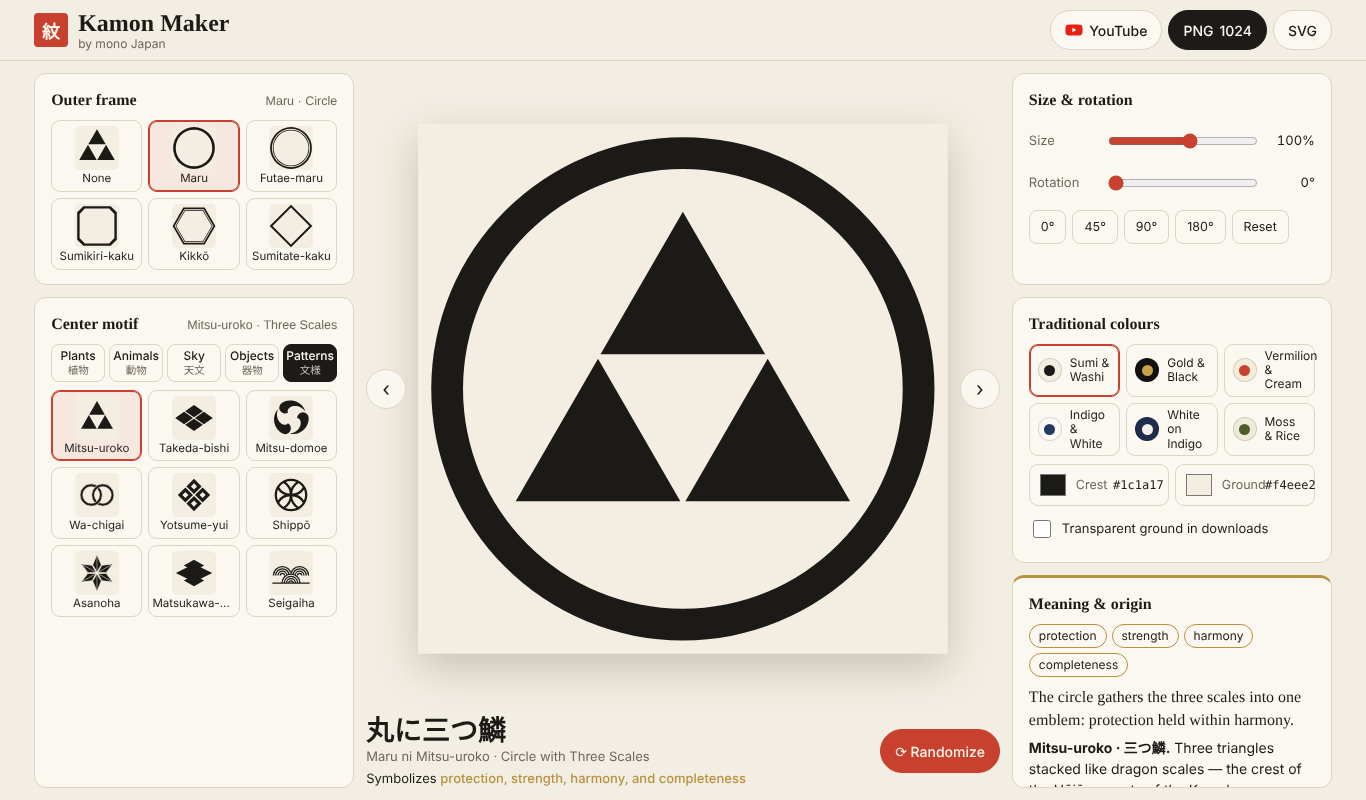
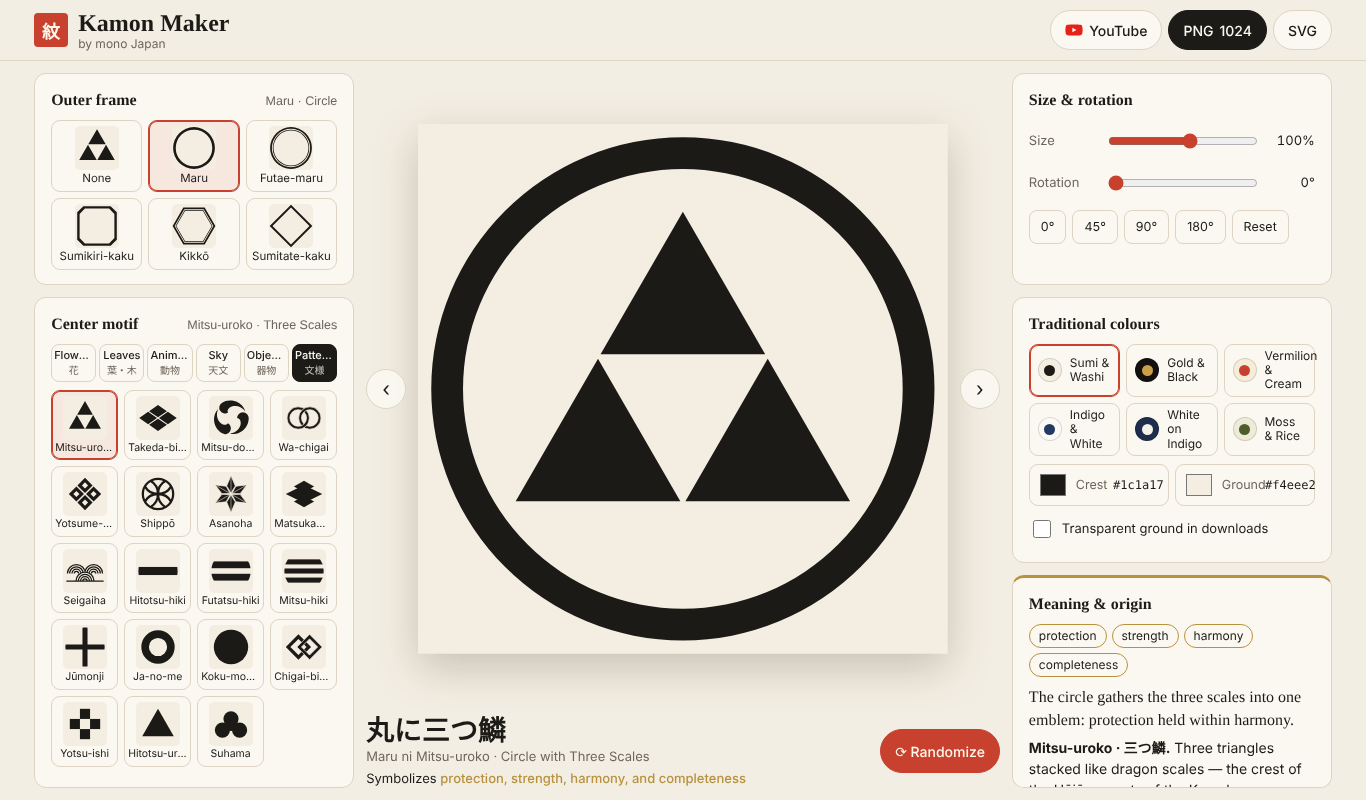
Add 24 redrawn motifs (65 total), split into 6 categories, clip bar crests to frame
Claude-Session: https://claude.ai/code/session_0124S54WDTQFpv3xbj78Jc1Y

Changed region(s): [[0.0307, 0.4375, 0.246, 0.9688]]

diff --git a/index.html b/index.html
@@ -34,10 +34,10 @@ button{cursor:pointer;-webkit-tap-highlight-color:transparent}
 .by{font-size:12px;color:var(--mute);line-height:1;white-space:nowrap;text-decoration:none}
 .by:hover{color:var(--shu);text-decoration:underline}
 a.btn{text-decoration:none;color:inherit}
-.cats{display:grid;grid-template-columns:repeat(5,minmax(0,1fr));gap:4px;margin:0 0 8px}
+.cats{display:grid;grid-template-columns:repeat(6,minmax(0,1fr));gap:3px;margin:0 0 8px}
 .cats button{min-height:38px;border:1px solid var(--line);border-radius:8px;background:transparent;display:grid;place-items:center;line-height:1.1;padding:3px 2px}
-.cats button span{font-size:12px;font-weight:500}
-.cats small{font-size:10.5px;color:var(--mute)}
+.cats button span{font-size:11px;font-weight:500;white-space:nowrap;overflow:hidden;text-overflow:ellipsis;max-width:100%}
+.cats small{font-size:10px;color:var(--mute);white-space:nowrap}
 .cats button[aria-selected=true]{background:var(--sel);border-color:var(--sel);color:var(--selink)}
 .cats button[aria-selected=true] small{color:inherit;opacity:.75}
 .top .acts{margin-left:auto;display:flex;gap:6px}
@@ -95,7 +95,8 @@ a.btn{text-decoration:none;color:inherit}
 .opt:hover{border-color:var(--mute)}
 .opt[aria-pressed=true]{border-color:var(--shu);background:color-mix(in srgb,var(--shu) 9%,transparent);box-shadow:inset 0 0 0 1px var(--shu)}
 @media(min-width:960px) and (min-height:600px){
- .grid{grid-template-columns:repeat(3,minmax(0,1fr))}.grid.m{grid-template-columns:repeat(3,minmax(0,1fr))}
+ .grid{grid-template-columns:repeat(3,minmax(0,1fr))}.grid.m{grid-template-columns:repeat(4,minmax(0,1fr))}
+ .grid.m .opt .lb{font-size:10.5px}
  .opt .lb{display:block}.opt .th{max-width:44px}
 }
 @media(min-width:600px) and (max-width:959px){.opt .lb{display:block}}
@@ -160,16 +161,16 @@ const P='var(--p)';
 
 /* ---------- frames ---------- */
 const FRAMES=[
- {id:'none',name:'None',en:'',ro:'',jp:'',fit:1.28,d:''},
- {id:'maru',name:'Maru',en:'Circle',ro:'Maru ni',jp:'丸に',fit:1,d:circ(95)+circ(83),
+ {id:'none',name:'None',en:'',ro:'',jp:'',fit:1.28,d:'',inner:circ(90)},
+ {id:'maru',name:'Maru',en:'Circle',ro:'Maru ni',jp:'丸に',fit:1,d:circ(95)+circ(83),inner:circ(83),
   kw:['harmony','completeness'],text:'The circle is the simplest and most familiar enclosure in Japanese heraldry — a single line that gathers the motif into a whole.'},
- {id:'futae',name:'Futae-maru',en:'Double Circle',ro:'Futae-maru ni',jp:'二重丸に',fit:.94,d:circ(95)+circ(87)+circ(83)+circ(79.5),
+ {id:'futae',name:'Futae-maru',en:'Double Circle',ro:'Futae-maru ni',jp:'二重丸に',fit:.94,d:circ(95)+circ(87)+circ(83)+circ(79.5),inner:circ(79.5),
   kw:['continuity','unity'],text:'A doubled ring: a heavy outer line with a fine one inside, reading as a layered, enduring boundary.'},
- {id:'sumikiri',name:'Sumikiri-kaku',en:'Cut-corner Square',ro:'Sumikiri-kaku ni',jp:'隅切り角に',fit:1.02,d:poly(octa(90,28))+poly(octa(79,24)),
+ {id:'sumikiri',name:'Sumikiri-kaku',en:'Cut-corner Square',ro:'Sumikiri-kaku ni',jp:'隅切り角に',fit:1.02,d:poly(octa(90,28))+poly(octa(79,24)),inner:poly(octa(79,24)),
   kw:['order','refinement'],text:'A square with its corners trimmed away — firm and orderly, but with the hard edges softened.'},
- {id:'kikko',name:'Kikkō',en:'Tortoise Shell',ro:'Kikkō ni',jp:'亀甲に',fit:.9,d:poly(ngon(6,97))+poly(ngon(6,88))+poly(ngon(6,84))+poly(ngon(6,80.5)),
+ {id:'kikko',name:'Kikkō',en:'Tortoise Shell',ro:'Kikkō ni',jp:'亀甲に',fit:.9,d:poly(ngon(6,97))+poly(ngon(6,88))+poly(ngon(6,84))+poly(ngon(6,80.5)),inner:poly(ngon(6,80.5)),
   kw:['longevity','good fortune'],text:'The hexagon imitates the plates of a tortoise shell, an animal tied to long life. Izumo Taisha encloses its crest in a double tortoise shell; one explanation links the hexagon to Genbu, the turtle-and-snake guardian of the north.'},
- {id:'sumitate',name:'Sumitate-kaku',en:'Diamond Square',ro:'Sumitate-kaku ni',jp:'隅立て角に',fit:.8,d:poly(ngon(4,97,-Math.PI/2))+poly(ngon(4,84,-Math.PI/2)),
+ {id:'sumitate',name:'Sumitate-kaku',en:'Diamond Square',ro:'Sumitate-kaku ni',jp:'隅立て角に',fit:.8,d:poly(ngon(4,97,-Math.PI/2))+poly(ngon(4,84,-Math.PI/2)),inner:poly(ngon(4,84,-Math.PI/2)),
   kw:['balance','resolve'],text:'A square stood on its corner — the same shape as a plain square, made alert and upright.'}
 ];
 
@@ -197,13 +198,13 @@ const MOTIFS=[
   svg:()=>{const a=78,b=54,c=[0,0],Q=[[0,-b],[a/2,-b/2],[a,0],[a/2,b/2],[0,b],[-a/2,b/2],[-a,0],[-a/2,-b/2]];
    return `<path d="${[[Q[0],Q[1],c,Q[7]],[Q[1],Q[2],Q[3],c],[c,Q[3],Q[4],Q[5]],[Q[7],c,Q[5],Q[6]]].map(t=>poly(shrink(t,.9))).join('')}"/>`},
   text:'A large diamond split into four — the crest of the Takeda clan of Kai province, the house of the warlord Takeda Shingen. The word hishi (diamond) is also the name of the water chestnut.'},
- {id:'ume',cat:'plants',name:'Umebachi',en:'Plum Blossom',jp:'梅鉢',kw:['perseverance','learning'],
+ {id:'ume',cat:'flowers',name:'Umebachi',en:'Plum Blossom',jp:'梅鉢',kw:['perseverance','learning'],
   svg:()=>ngon(5,41,-Math.PI/2).map(([x,y])=>`<circle cx="${f(x)}" cy="${f(y)}" r="22.5"/>`).join('')+`<circle r="11.5"/>`+ngon(5,17.5,Math.PI/2).map(([x,y])=>`<circle cx="${f(x)}" cy="${f(y)}" r="2.6"/>`).join(''),
   text:'A stylised plum blossom of five round petals. The plum flowers in late winter, so it stands for endurance. Plum crests belong to the cult of the scholar Sugawara no Michizane: Kitano Tenmangū in Kyoto, head shrine of Tenjin worship, uses a “star plum” variant.'},
  {id:'tomoe',cat:'patterns',name:'Mitsu-domoe',en:'Comma Swirl',jp:'三つ巴',kw:['cycles of life','guarding'],
   svg:()=>{const p=tomoe();return [0,120,240].map(a=>rot(a,`<path d="${p}"/>`)).join('')},
   text:'Three comma shapes turning around a centre — one of the most common shrine crests, long associated with shrines to Hachiman, the deity the Minamoto warrior clan took as its guardian.'},
- {id:'kikyo',cat:'plants',name:'Kikyō',en:'Bellflower',jp:'桔梗',kw:['sincerity','constancy'],
+ {id:'kikyo',cat:'flowers',name:'Kikyō',en:'Bellflower',jp:'桔梗',kw:['sincerity','constancy'],
   svg:()=>{const pet=`<path d="M0-5L-27.5-43Q-29-64 0-76Q29-64 27.5-43Z"/><path d="M0-16V-48" stroke="${P}" stroke-width="2.4" stroke-linecap="round"/>`;
    return [0,72,144,216,288].map(a=>rot(a,pet)).join('')+`<circle r="6" fill="${P}"/>`},
   text:'The five pointed petals of the Chinese bellflower, a classic flower of autumn. It is associated with the Toki clan of Mino province and with Akechi Mitsuhide, who came from a branch of the Toki.'},
@@ -213,15 +214,15 @@ const MOTIFS=[
  {id:'kuyo',cat:'sky',name:'Kuyō',en:'Nine Stars',jp:'九曜',kw:['guidance','heavenly order'],
   svg:()=>`<circle r="21"/>`+ngon(8,52,-Math.PI/2).map(([x,y])=>`<circle cx="${f(x)}" cy="${f(y)}" r="15.5"/>`).join(''),
   text:'Nine circles for nine heavenly bodies — sun, moon, five planets and two “shadow” stars tied to eclipses — once painted on carriages and robes for protection. Hosokawa Tadaoki is said to have received it from Oda Nobunaga, and it became the Hosokawa crest.'},
- {id:'hanabishi',cat:'plants',name:'Hanabishi',en:'Flower Diamond',jp:'花菱',kw:['elegance','grace'],
+ {id:'hanabishi',cat:'flowers',name:'Hanabishi',en:'Flower Diamond',jp:'花菱',kw:['elegance','grace'],
   svg:()=>{const p=`<path d="M0-7C-16-12-26-34-14-50C-8-56-2-54 0-46C2-54 8-56 14-50C26-34 16-12 0-7Z" ${sep}/>`;
    return `<g transform="scale(1.32 1.04)">${[0,90,180,270].map(a=>rot(a,p)).join('')}</g>`+ngon(4,7,Math.PI/4).map(([x,y])=>`<circle cx="${f(x)}" cy="${f(y)}" r="2" />`).join('')},
   text:'Four heart-shaped petals set in a diamond — an old court pattern. At Izumo Taisha a four-petalled flower divided by sword blades sits inside the double tortoise shell of the shrine’s crest.'},
- {id:'sakura',cat:'plants',name:'Sakura',en:'Cherry Blossom',jp:'桜',kw:['renewal','transience'],
+ {id:'sakura',cat:'flowers',name:'Sakura',en:'Cherry Blossom',jp:'桜',kw:['renewal','transience'],
   svg:()=>{const p=`<path d="M0-8C-23-16-32-46-17-66L0-55L17-66C32-46 23-16 0-8Z" ${sep}/><path d="M0-12V-22" stroke="${P}" stroke-width="2" stroke-linecap="round"/>`;
    return [0,72,144,216,288].map(a=>rot(a,p)).join('')+`<circle r="6" fill="${P}"/><circle r="2.6"/>`},
   text:'Five notched cherry petals. The blossoms open briefly and fall together, and Japanese poetry has long read them as an image of beauty that does not last.'},
- {id:'kiri',cat:'plants',name:'Go-san no Kiri',en:'Paulownia',jp:'五三桐',kw:['honour','authority'],
+ {id:'kiri',cat:'leaves',name:'Go-san no Kiri',en:'Paulownia',jp:'五三桐',kw:['honour','authority'],
   svg:()=>`<g transform="translate(0 5) scale(.93)">`+
    `<g transform="translate(0 10) rotate(70) scale(.92)">${leaf}</g><g transform="translate(0 10) rotate(-70) scale(.92)">${leaf}</g><g transform="translate(0 8)">${leaf}</g>`+
    `<g transform="translate(0 -2)">${stalk(5)}</g><g transform="translate(-24 -2) rotate(-30)">${stalk(3)}</g><g transform="translate(24 -2) rotate(30)">${stalk(3)}</g></g>`,
@@ -294,13 +295,13 @@ const MOTIFS=[
    `<rect x="-58" y="52" width="116" height="8" rx="4"/><rect x="-36" y="66" width="72" height="8" rx="4"/></g>`,
   text:'Japan’s highest mountain, with its snow-capped triple summit above bands of mist. Fuji has been revered for centuries as a sacred peak.'},
  /* ---- added: plants ---- */
- {id:'aoi',cat:'plants',name:'Mitsuba-aoi',en:'Three Hollyhock Leaves',jp:'三つ葉葵',kw:['authority','protection'],
+ {id:'aoi',cat:'leaves',name:'Mitsuba-aoi',en:'Three Hollyhock Leaves',jp:'三つ葉葵',kw:['authority','protection'],
   svg:()=>{const lf=`<path d="M0-14C-6-8-30-12-32-32C-34-52-14-66 0-74C14-66 34-52 32-32C30-12 6-8 0-14Z"/>`+
    `<path d="M0-18V-66M0-30L-16-24M0-30L16-24M0-42L-20-40M0-42L20-40M0-54L-16-56M0-54L16-56" fill="none" stroke="${P}" stroke-width="2" stroke-linecap="round"/>`+
    `<path d="M0 0V-16" stroke="currentColor" stroke-width="4.5"/>`;
    return [0,120,240].map(a=>rot(a,lf)).join('')+`<circle r="6"/>`},
   text:'Three heart-shaped leaves meeting at the centre — the crest of the Tokugawa shoguns, still seen in gold at Nikkō Tōshōgū, the shrine dedicated to Tokugawa Ieyasu.'},
- {id:'icho',cat:'plants',name:'Mitsu-ichō',en:'Three Ginkgo Leaves',jp:'三つ銀杏',kw:['endurance','long life'],
+ {id:'icho',cat:'leaves',name:'Mitsu-ichō',en:'Three Ginkgo Leaves',jp:'三つ銀杏',kw:['endurance','long life'],
   svg:()=>{const lf=`<path d="M0-12L-38-54A56 56 0 0 1-4-68L0-55L4-68A56 56 0 0 1 38-54Z" ${sep}/>`+
    `<path d="M0 0V-14" stroke="currentColor" stroke-width="4"/>`;
    return [0,120,240].map(a=>rot(a,lf)).join('')+`<circle r="5"/>`},
@@ -325,15 +326,15 @@ const MOTIFS=[
   text:'Circles overlapping by a quarter, named after the seven treasures of Buddhism. The endlessly linked rings are read as harmony and good relationships.'},
 
  /* ---- round 3 ---- */
- {id:'kiku',cat:'plants',name:'Kiku',en:'Chrysanthemum',jp:'十二菊',kw:['nobility','long life'],
+ {id:'kiku',cat:'flowers',name:'Kiku',en:'Chrysanthemum',jp:'十二菊',kw:['nobility','long life'],
   svg:()=>{const p=`<path d="M-5.5-17L-13.5-62Q0-76 13.5-62L5.5-17Z" ${sep}/>`;
    return Array.from({length:12},(_,i)=>rot(i*30,p)).join('')+`<circle r="17" ${sep}/>`},
   text:'A chrysanthemum seen from the front. The imperial family uses a sixteen-petalled double chrysanthemum; this design has twelve petals, like the many chrysanthemum crests used by ordinary families and shrines.'},
- {id:'sasa',cat:'plants',name:'Mitsu-sasa',en:'Three Bamboo Leaves',jp:'三つ笹',kw:['resilience','integrity'],
+ {id:'sasa',cat:'leaves',name:'Mitsu-sasa',en:'Three Bamboo Leaves',jp:'三つ笹',kw:['resilience','integrity'],
   svg:()=>{const lf=`<path d="M0-6C20-18 22-52 0-76C-22-52-20-18 0-6Z" ${sep}/><path d="M0-14V-66" stroke="${P}" stroke-width="2.4"/>`;
    return [0,120,240].map(a=>rot(a,lf)).join('')+[60,180,300].map(a=>rot(a,`<g transform="scale(.66)">${lf}</g>`)).join('')+`<circle r="5"/>`},
   text:'Bamboo leaves fanned around a centre. Bamboo bends in the wind without breaking and stays green through winter, so it stands for resilience and an upright character.'},
- {id:'kashiwa',cat:'plants',name:'Mitsu-gashiwa',en:'Three Oak Leaves',jp:'三つ柏',kw:['family continuity','prosperity'],
+ {id:'kashiwa',cat:'leaves',name:'Mitsu-gashiwa',en:'Three Oak Leaves',jp:'三つ柏',kw:['family continuity','prosperity'],
   svg:()=>{const N=40,L=72,pts=[];for(let i=0;i<=N;i++){const t=i/N,w=22*Math.pow(Math.sin(Math.PI*t),.8)+4*Math.abs(Math.sin(5*Math.PI*t))*Math.sin(Math.PI*t);pts.push([w,-8-L*t])}
    const d='M'+[...pts,...pts.slice().reverse().map(([x,y])=>[-x,y])].map(p=>p.map(f).join(' ')).join('L')+'Z';
    const lf=`<path d="${d}" ${sep}/><path d="M0-12V-74M0-26L-12-34M0-26L12-34M0-40L-14-48M0-40L14-48M0-54L-11-62M0-54L11-62" fill="none" stroke="${P}" stroke-width="2" stroke-linecap="round"/>`;
@@ -366,7 +367,7 @@ const MOTIFS=[
   text:'Six copper coins in two rows — the famous crest of the Sanada clan of Shinano, still seen everywhere around Ueda Castle. Six coins were customarily placed with the dead as the fare across the Sanzu River to the afterlife, and the crest is popularly read as a warrior’s readiness to die.'},
  {id:'kuginuki',cat:'objects',name:'Kuginuki',en:'Nail Puller',jp:'釘抜',kw:['strength','removing obstacles'],
   svg:()=>`<g transform="rotate(45)"><path fill-rule="evenodd" d="M-48-48H48V48H-48ZM-19-19H19V19H-19Z"/><path d="M-48 0H-19M19 0H48" stroke="${P}" stroke-width="2.6"/></g>`,
-  text:'The square washer of a large nail puller used in temple carpentry. Because it pulls out nails, the crest is read as clearing away obstacles.'},
+  text:'The square washer once slipped under a nail so it could be prised out again. Kugi o nuku, “pull out a nail”, sounds like ku o nuku, “pull out suffering”, which made it a lucky crest for samurai.'},
  {id:'asanoha',cat:'patterns',name:'Asanoha',en:'Hemp Leaf',jp:'麻の葉',kw:['healthy growth','protection'],
   svg:()=>{const k=`<path d="M0-4L-17-32L0-72L17-32Z" ${sep}/><path d="M0-10V-64" stroke="${P}" stroke-width="2"/>`;return Array.from({length:6},(_,i)=>rot(i*60,k)).join('')},
   text:'Six diamonds radiating from a centre, like a hemp leaf. Hemp grows quickly and straight, so the pattern was often used on children’s clothing as a wish for healthy growth.'},
@@ -377,6 +378,92 @@ const MOTIFS=[
   svg:()=>{const fan=(cx,cy)=>`<path d="M${cx-38} ${cy}A38 38 0 0 1 ${cx+38} ${cy}Z" fill="${P}"/>`+[38,29,20,11].map(r=>`<path d="M${cx-r+2.5} ${cy}A${r-2.5} ${r-2.5} 0 0 1 ${cx+r-2.5} ${cy}" fill="none" stroke="currentColor" stroke-width="5"/>`).join('');
    return `<g transform="translate(0 -6)">`+fan(-34,16)+fan(34,16)+fan(0,46)+`<path d="M-72 46H72" stroke="currentColor" stroke-width="5" stroke-linecap="round"/></g>`},
   text:'Layers of fan-shaped waves. The calm, endlessly repeating sea carries a wish for peaceful days that go on and on.'},
+
+ /* ---- round 4: redrawn from reference set (batch 1) ---- */
+ {id:'hiki1',cat:'patterns',clip:1,name:'Hitotsu-hiki',en:'One Bar',jp:'一つ引',kw:['unity','clarity'],
+  svg:()=>`<rect x="-120" y="-16" width="240" height="32"/>`,
+  text:'A single bold band — the plainest of the “drawn-line” (hikiryō) crests, usually set inside a circle.'},
+ {id:'hiki2',cat:'patterns',clip:1,name:'Futatsu-hiki',en:'Two Bars',jp:'二つ引',kw:['order','authority'],
+  svg:()=>`<rect x="-120" y="-38" width="240" height="27"/><rect x="-120" y="11" width="240" height="27"/>`,
+  text:'Two horizontal bands. Set inside a circle, this is the crest of the Ashikaga, the family that founded the Muromachi shogunate.'},
+ {id:'hiki3',cat:'patterns',clip:1,name:'Mitsu-hiki',en:'Three Bars',jp:'三つ引',kw:['balance','steadiness'],
+  svg:()=>`<rect x="-120" y="-46" width="240" height="20"/><rect x="-120" y="-10" width="240" height="20"/><rect x="-120" y="26" width="240" height="20"/>`,
+  text:'Three evenly spaced bands — a variation of the drawn-line crests, simple enough to read from far across a battlefield.'},
+ {id:'jumonji',cat:'patterns',clip:1,name:'Jūmonji',en:'Cross',jp:'十文字',kw:['protection','steadfastness'],
+  svg:()=>`<path d="M-10-120H10V-10H120V10H10V120H-10V10H-120V-10H-10Z"/>`,
+  text:'A plain cross that reaches the edge of its frame. Inside a circle it is the crest of the Shimazu, lords of Satsuma in southern Kyūshū.'},
+ {id:'janome',cat:'patterns',name:'Ja-no-me',en:'Snake’s Eye',jp:'蛇の目',kw:['protection','vigilance'],
+  svg:()=>`<path fill-rule="evenodd" d="${circ(66)+circ(36)}"/>`,
+  text:'A thick ring named after the round eye of a snake — a bold, simple emblem of watchfulness.'},
+ {id:'kokumochi',cat:'patterns',name:'Koku-mochi',en:'Black Disc',jp:'黒餅',kw:['abundance','wholeness'],
+  svg:()=>`<circle r="68"/>`,
+  text:'A solid disc, called koku-mochi, “black rice cake”. Plain discs like this also served as a ground from which other crests were cut out in white.'},
+ {id:'kyokko',cat:'sky',name:'Kyokkō',en:'Rising Sun Rays',jp:'旭光',kw:['vitality','hope'],
+  svg:()=>`<circle r="24"/>`+Array.from({length:16},(_,i)=>rot(i*22.5,`<path d="M-5.5-30L0-${i%2?58:72}L5.5-30Z"/>`)).join(''),
+  text:'A sun sending out rays of two lengths — the morning sun, an image of fresh energy and hope.'},
+ {id:'mitsuboshi3',cat:'sky',name:'Mitsu-boshi',en:'Three Stars',jp:'三つ星',kw:['guidance','harmony'],
+  svg:()=>[[0,-30],[-34,26],[34,26]].map(([x,y])=>`<circle cx="${x}" cy="${y}" r="27"/>`).join(''),
+  text:'Three stars in a triangle — the plainest of the star crests, drawn as simple discs.'},
+ {id:'mutsuboshi',cat:'sky',name:'Mutsu-boshi',en:'Six Stars',jp:'六つ星',kw:['fortune','connection'],
+  svg:()=>`<circle r="20"/>`+ngon(5,50,-Math.PI/2).map(([x,y])=>`<circle cx="${f(x)}" cy="${f(y)}" r="19"/>`).join(''),
+  text:'One star circled by five more — a compact constellation, read as many fortunes gathered around one centre.'},
+ {id:'chigaibishi',cat:'patterns',name:'Chigai-bishi',en:'Linked Diamonds',jp:'違い菱',kw:['partnership','bonds'],
+  svg:()=>{const ring=(cx,extra='')=>`<path fill-rule="evenodd" d="M${cx-50} 0L${cx} -50L${cx+50} 0L${cx} 50ZM${cx-32} 0L${cx} -32L${cx+32} 0L${cx} 32Z" ${extra}/>`;
+   return ring(-22)+ring(22,sep)},
+  text:'Two diamond rings laid across each other, an angular cousin of the linked-rings crest.'},
+ {id:'yotsuishi',cat:'patterns',name:'Yotsu-ishi',en:'Four Stones',jp:'四つ石',kw:['order','prosperity'],
+  svg:()=>[[0,-40],[-40,0],[40,0],[0,40]].map(([x,y])=>`<rect x="${x-20}" y="${y-20}" width="40" height="40"/>`).join(''),
+  text:'Four square paving stones set corner to corner. Squares like these form the ishidatami (stone pavement) pattern, which later became known as the ichimatsu checkerboard.'},
+ {id:'hitouroko',cat:'patterns',name:'Hitotsu-uroko',en:'One Scale',jp:'一つ鱗',kw:['protection','focus'],
+  svg:()=>`<path d="${poly(ngon(3,72,-Math.PI/2).map(([x,y])=>[x,y+12]))}"/>`,
+  text:'A single triangular scale — the simplest of the scale crests.'},
+ {id:'suhama',cat:'patterns',name:'Suhama',en:'Sandbar',jp:'洲浜',kw:['celebration','long life'],
+  svg:()=>`<g transform="translate(0 6)"><circle cx="0" cy="-26" r="30"/><circle cx="-34" cy="18" r="30"/><circle cx="34" cy="18" r="30"/><circle r="22"/></g>`,
+  text:'The curving outline of a sandbar seen from above — a soft, auspicious shape long used in celebration decorations.'},
+ {id:'izutsu',cat:'objects',name:'Izutsu',en:'Well Frame',jp:'井筒',kw:['source','integrity'],
+  svg:()=>`<path d="M-40-64H-20V64H-40ZM20-64H40V64H20ZM-64-40H64V-20H-64ZM-64 20H64V40H-64Z"/>`,
+  text:'The square timber frame around the mouth of a well, drawn upright. A cousin of the diamond-turned well curb.'},
+ {id:'chigiri',cat:'objects',name:'Chigiri',en:'Butterfly Joint',jp:'千切り',kw:['bonds','craftsmanship'],
+  svg:()=>`<path d="M-66-44L-8-16H8L66-44V44L8 16H-8L-66 44Z"/>`,
+  text:'The bow-tie shaped wooden key a carpenter sets across a joint to hold two boards together — a picture of things bound fast.'},
+ {id:'torii',cat:'objects',name:'Torii',en:'Shrine Gate',jp:'鳥居',kw:['the sacred','passage'],
+  svg:()=>`<g transform="translate(0 4)"><path d="M-74-56Q0-46 74-56L70-42Q0-34-70-42Z"/><rect x="-58" y="-36" width="116" height="8"/><rect x="-56" y="-18" width="112" height="10"/>`+
+   `<rect x="-5" y="-30" width="10" height="14"/><path d="M-44-28H-32L-30 66H-46ZM32-28H44L46 66H30Z"/></g>`,
+  text:'The gate that marks the entrance to a Shinto shrine, where the everyday world gives way to sacred ground.'},
+ {id:'fune',cat:'objects',name:'Hokake-bune',en:'Sailing Ship',jp:'帆掛船',kw:['voyage','progress'],
+  svg:()=>`<g transform="translate(0 2)"><path d="M-70 30H70L54 56H-54Z"/><rect x="-3" y="-66" width="6" height="96"/>`+
+   `<path d="M-46-56H46V20H-46Z"/><path d="M-46-36H46M-46-16H46M-46 4H46M-24-56V20M0-56V20M24-56V20" stroke="${P}" stroke-width="2.4"/>`+
+   `<path d="M-3-66L-60 30M3-66L60 30" stroke="currentColor" stroke-width="1.8"/></g>`,
+  text:'A ship running before the wind under a square sail — a hope for smooth passage and steady progress.'},
+ {id:'uchiwa',cat:'objects',name:'Uchiwa',en:'Round Fan',jp:'団扇',kw:['command','cool composure'],
+  svg:()=>`<g transform="translate(0 -4)"><circle cy="-18" r="50"/>`+Array.from({length:9},(_,i)=>`<path d="M0 22L${f(48*Math.cos((-160+i*17.5)*Math.PI/180))} ${f(-18+48*Math.sin((-160+i*17.5)*Math.PI/180))}" stroke="${P}" stroke-width="1.8"/>`).join('')+
+   `<rect x="-6" y="28" width="12" height="44" rx="3"/><circle cy="30" r="9"/></g>`,
+  text:'A flat round fan. Warlords carried a war fan of this shape (gunbai) to signal orders, so the fan also stands for command.'},
+ {id:'kasa',cat:'objects',name:'Kasa',en:'Traveller’s Hat',jp:'笠',kw:['journey','humility'],
+  svg:()=>`<g transform="translate(0 10)"><path d="M-74 22Q0-74 74 22Q0 34-74 22Z"/>`+[-50,-25,0,25,50].map(x=>`<path d="M0-48L${x} 26" stroke="${P}" stroke-width="2"/>`).join('')+
+   `<path d="M-74 22Q0 34 74 22" fill="none" stroke="${P}" stroke-width="3"/><circle cy="-46" r="5"/></g>`,
+  text:'A wide woven hat of the kind worn by travellers, pilgrims and farmers — an image of the road and of quiet humility.'},
+ {id:'suisha',cat:'objects',name:'Suisha',en:'Water Wheel',jp:'水車',kw:['perseverance','cycles'],
+  svg:()=>`<path fill-rule="evenodd" d="${circ(58)+circ(48)+circ(14)+circ(7)}"/>`+
+   Array.from({length:6},(_,i)=>rot(i*60,`<path d="M-3-12L-3-50H3L3-12Z"/>`)).join('')+
+   Array.from({length:12},(_,i)=>rot(i*30,`<path d="M-7-56H7V-72H-7Z"/>`)).join(''),
+  text:'A water wheel with its paddles, turning endlessly as long as the stream runs — patient, steady work.'},
+ {id:'mokko',cat:'flowers',name:'Mokkō',en:'Quince Flower',jp:'木瓜',kw:['prosperity','family'],
+  svg:()=>{const lob=r=>[[34,0],[-34,0],[0,34],[0,-34]].map(([x,y])=>`<circle cx="${x}" cy="${y}" r="${r}"/>`).join('');
+   const p=`<path d="M0-12C-22-20-34-48-18-60C-10-66-3-62 0-56C3-62 10-66 18-60C34-48 22-20 0-12Z" ${sep}/>`;
+   return `<g transform="rotate(45)">${lob(38)}<g fill="${P}">${lob(30)}</g></g><g transform="scale(.6)">${[0,90,180,270].map(a=>rot(a,p)).join('')}</g><circle r="8"/><circle r="3.4" fill="${P}"/>`},
+  text:'A four-lobed outline around a small flower, said to depict a bird’s nest or the cut face of a melon and read as a wish for many descendants. A five-lobed version was the crest of the Oda, the family of Oda Nobunaga.'},
+ {id:'katabami',cat:'leaves',name:'Katabami',en:'Wood Sorrel',jp:'片喰',kw:['tenacity','growth'],
+  svg:()=>{const lf=`<path d="M0-6C-30-20-42-58-20-67C-9-71-2-64 0-55C2-64 9-71 20-67C42-58 30-20 0-6Z"/>`;return [0,120,240].map(a=>rot(a,lf)).join('')+`<circle r="7"/>`},
+  text:'Three heart-shaped leaves of wood sorrel, a small plant that spreads quickly and is almost impossible to uproot.'},
+ {id:'kenkatabami',cat:'leaves',name:'Ken-katabami',en:'Sorrel with Swords',jp:'剣片喰',kw:['tenacity','courage'],
+  svg:()=>{const lf=`<path d="M0-6C-26-18-36-50-18-58C-8-62-2-56 0-48C2-56 8-62 18-58C36-50 26-18 0-6Z"/>`,bl=`<path d="M0-18L-6-30L0-74L6-30Z"/><path d="M-10-26H10" stroke="currentColor" stroke-width="3"/>`;
+   return [0,120,240].map(a=>rot(a,lf)).join('')+[60,180,300].map(a=>rot(a,bl)).join('')+`<circle r="7"/>`},
+  text:'Wood-sorrel leaves with sword blades between them, adding a warrior’s edge to the plant’s tenacity.'},
+ {id:'karahana',cat:'flowers',name:'Karahana',en:'Chinese Flower',jp:'唐花',kw:['elegance','refinement'],
+  svg:()=>{const p=`<path d="M0-12C-22-20-34-48-18-60C-10-66-3-62 0-56C3-62 10-66 18-60C34-48 22-20 0-12Z" ${sep}/>`,s=`<path d="M0-14L-8-30L0-50L8-30Z"/>`;
+   return [45,135,225,315].map(a=>rot(a,p)).join('')+[0,90,180,270].map(a=>rot(a,s)).join('')+`<circle r="12"/><circle r="5" fill="${P}"/>`},
+  text:'An imaginary flower of continental style, one of the oldest ornamental motifs in Japanese court design and the centre of many larger crests.'},
 ];
 
 const PRESETS=[
@@ -388,12 +475,14 @@ const PRESETS=[
  {id:'matcha',name:'Moss & Rice',ink:'#4e5d2c',paper:'#efebd9'}
 ];
 
+let CID=0;
 function buildSVG(s,{size=1024,transparent=false,frameOnly=false,motifOnly=false}={}){
  const fr=FRAMES.find(x=>x.id===s.frame)||FRAMES[0],mo=MOTIFS.find(x=>x.id===s.motif)||MOTIFS[0];
  const sc=f((motifOnly?1.15:fr.fit)*s.size/100);
  const bg=transparent?'':`<rect width="200" height="200" fill="${s.paper}"/>`;
  const frame=motifOnly||!fr.d?'':`<path d="${fr.d}" fill-rule="evenodd"/>`;
- const motif=frameOnly?'':`<g transform="rotate(${s.rot}) scale(${sc})">${mo.svg()}</g>`;
+ let motif=frameOnly?'':`<g transform="rotate(${s.rot}) scale(${sc})">${mo.svg()}</g>`;
+ if(motif&&mo.clip){const id='k'+(++CID);const inner=motifOnly?circ(90):(fr.inner||circ(90));motif=`<clipPath id="${id}"><path d="${inner}"/></clipPath><g clip-path="url(#${id})">${motif}</g>`}
  return `<svg xmlns="http://www.w3.org/2000/svg" viewBox="0 0 200 200" width="${size}" height="${size}">${bg}<g transform="translate(100 100)" fill="${s.ink}" color="${s.ink}">${frame}${motif}</g></svg>`
   .replace(/var\(--p\)/g,s.paper);
 }
@@ -402,7 +491,7 @@ const DEFAULT={frame:'maru',motif:'uroko',size:100,rot:0,ink:'#1c1a17',paper:'#f
 const load=()=>{try{const o={...DEFAULT,...JSON.parse(localStorage.getItem('kamon')||'{}')};if(!MOTIFS.some(m=>m.id===o.motif))o.motif='uroko';if(!FRAMES.some(m=>m.id===o.frame))o.frame='maru';return o}catch(e){return DEFAULT}};
 const pick=a=>a[Math.floor(Math.random()*a.length)];
 const andList=k=>k.length>2?k.slice(0,-1).join(', ')+', and '+k.at(-1):k.join(' and ');
-const CATS=[['plants','Plants','植物'],['animals','Animals','動物'],['sky','Sky','天文'],['objects','Objects','器物'],['patterns','Patterns','文様']];
+const CATS=[['flowers','Flowers','花'],['leaves','Leaves','葉・木'],['animals','Animals','動物'],['sky','Sky','天文'],['objects','Objects','器物'],['patterns','Patterns','文様']];
 const TABS=[['frame','Frame'],['motif','Motif'],['adjust','Adjust'],['color','Colour'],['meaning','Meaning']];
 
 function App(){

diff --git a/README.md b/README.md
@@ -11,12 +11,7 @@ Design your own Japanese family crest (*kamon*) in the browser. Pick an outer fr
 ## Features
 
 - **6 outer frames** — None, Maru (Circle), Futae-maru (Double Circle), Sumikiri-kaku (Cut-corner Square), Kikkō (Tortoise Shell), Sumitate-kaku (Diamond Square)
-- **41 center motifs in 5 categories**
-  - Plants: Umebachi, Kikyō, Hanabishi, Sakura, Go-san no Kiri, Mitsuba-aoi, Mitsu-ichō, Kiku, Mitsu-sasa, Mitsu-gashiwa
-  - Animals: Chidori, Chō, Usagi, Tonbo, Chigai Taka-no-ha, Kame, Karigane, Tsuru, Kani
-  - Sky & Nature: Kuyō, Ichimonji Mitsuboshi, Yukiwa, Mikazuki, Fuji, Kumo
-  - Objects: Chigai-ya, Igeta, Genji-guruma, Ōgi, Fundō, Rokumonsen, Kuginuki
-  - Patterns: Mitsu-uroko, Takeda-bishi, Mitsu-domoe, Wa-chigai, Yotsume-yui, Shippō, Asanoha, Matsukawa-bishi, Seigaiha
+- **65 center motifs in 6 categories** — Flowers, Leaves & Trees, Animals, Sky & Nature, Objects, Patterns — all drawn as original vector artwork
 - **Size and rotation** controls
 - **Traditional colour presets** plus free colour pickers, with an optional transparent background
 - **Meaning & origin card** that describes your combination in English
